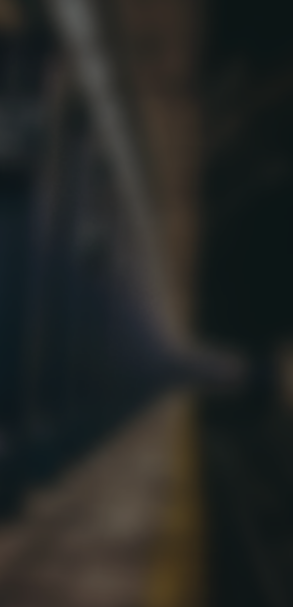
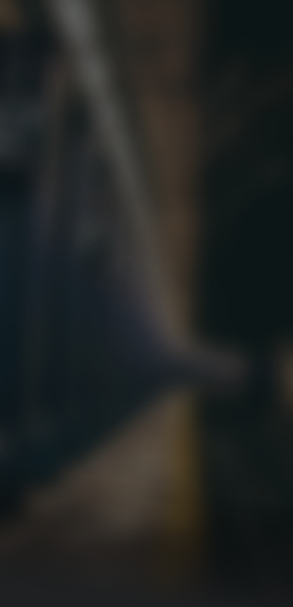
Refactor images

Changed region(s): [[0.0, 0.8303, 0.6451, 1.0]]

diff --git a/assets/css/main.css b/assets/css/main.css
@@ -2125,7 +2125,7 @@ input, select, textarea {
 				color: #fff;
 				content: 'Coming Soon';
 				display: inline-block;
-				font-size: 1.8em;
+				font-size: 1.5em;
 				font-weight: 100;
 				left: 37%;
 				line-height: 2.25em;
@@ -2637,13 +2637,13 @@ input, select, textarea {
 		-webkit-align-items: -webkit-flex-end;
 		-ms-align-items: -ms-flex-end;
 		align-items: flex-end;
-		-moz-justify-content: space-between;
+		-moz-justify-content: space-between; 
 		-webkit-justify-content: space-between;
 		-ms-justify-content: space-between;
 		justify-content: space-between;
 		background-color: #202022;
 		background-attachment: scroll,								scroll;
-		background-image: url("images/overlay.png"), url("../../images/subway.jpg(4).png");
+		background-image: url("images/overlay.png"), url("../../images/subway.png");
 		background-position: top left,							top left;
 		background-repeat: repeat,								no-repeat;
 		background-size: auto,								150%;
@@ -3129,7 +3129,7 @@ input, select, textarea {
 			#footer {
 				background-attachment: scroll;
 				background-color: #202022;
-				background-image: url("images/overlay.png"), url("../../images/subway.jpg(4).png");
+				background-image: url("images/overlay.png"), url("../../images/subway.png");
 				background-position: top left,						bottom center;
 				background-repeat: repeat,							no-repeat;
 				background-size: auto,							cover;

diff --git a/index.html b/index.html
@@ -82,12 +82,12 @@
 					<h2>Projects ands Posts</h2>
 					<div class="row">
 						<article class="col-6 col-12-xsmall work-item">
-							<a href="#" class="image fit soon"><img src="images/thumbs/SaxBI.png" alt="" /></a>
+							<a href="https://github.com/jtamanas/LBI" target="_blank" class="image fit soon"><img src="images/thumbs/SaxBI.png" alt="" /></a>
 							<h3>SaxBI</h3>
 							<p>All-in-one implementation of simulation-based inference algorithms written in JAX.</p>
 						</article>
 						<article class="col-6 col-12-xsmall work-item">
-							<a href="images/fulls/01.jpg" class="image fit soon"><img src="images/thumbs/comingsoon.png" alt="" /></a>
+							<a href="#" class="image fit soon"><img src="images/thumbs/comingsoon.png" alt="" /></a>
 							<h3>Update your Jax seeds!</h3>
 							<p>Illustrating the importance of maintaining good RNG practices and demonstrating subtle issues that can arise.</p>
 						</article>
